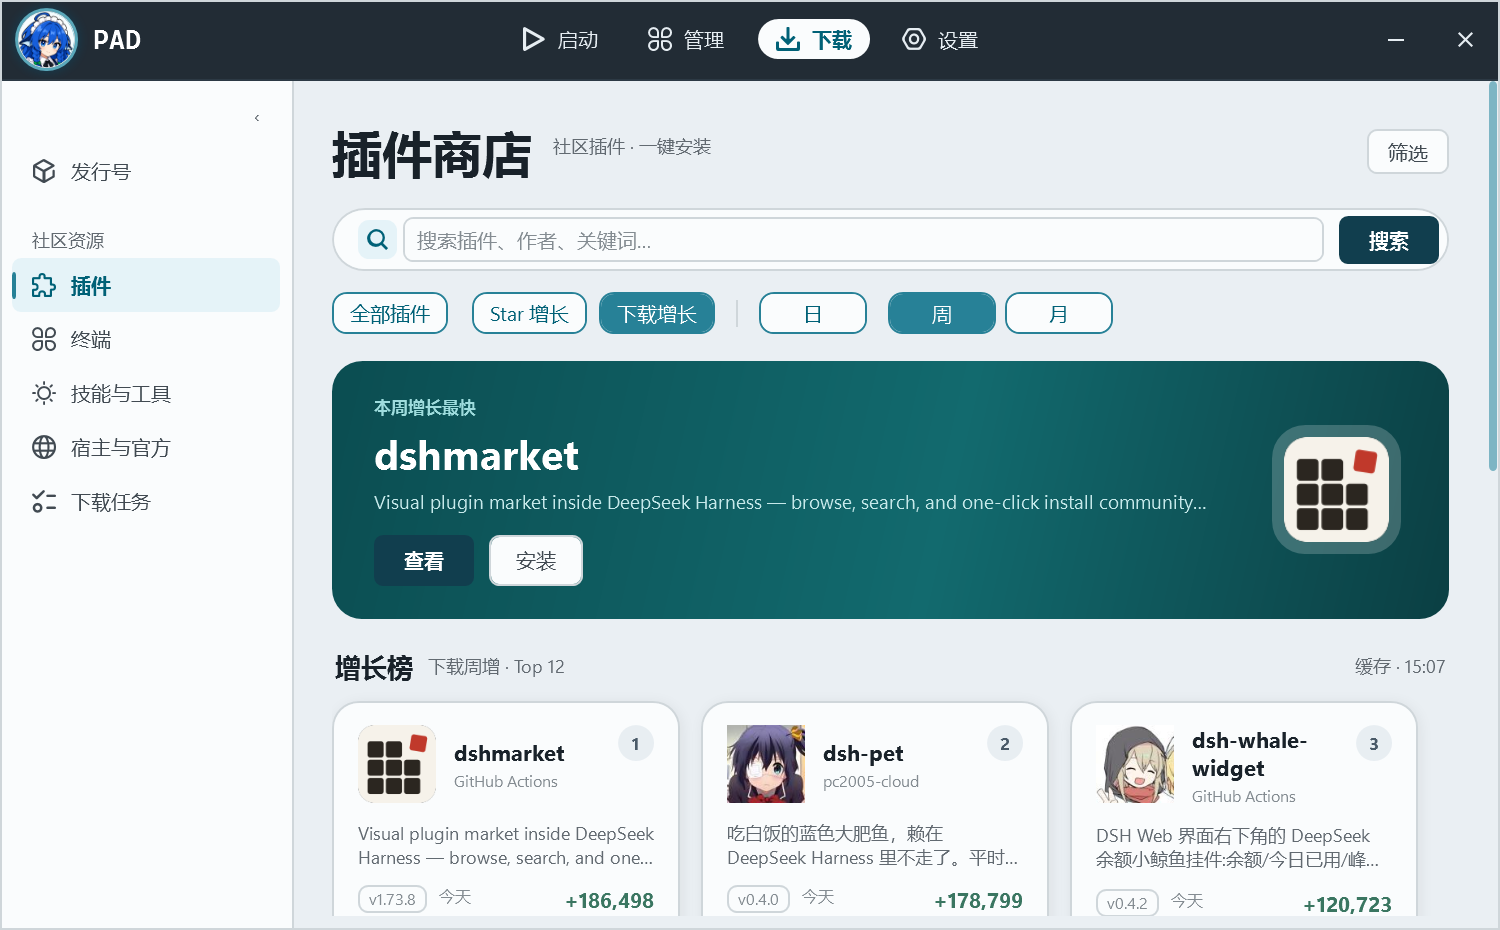
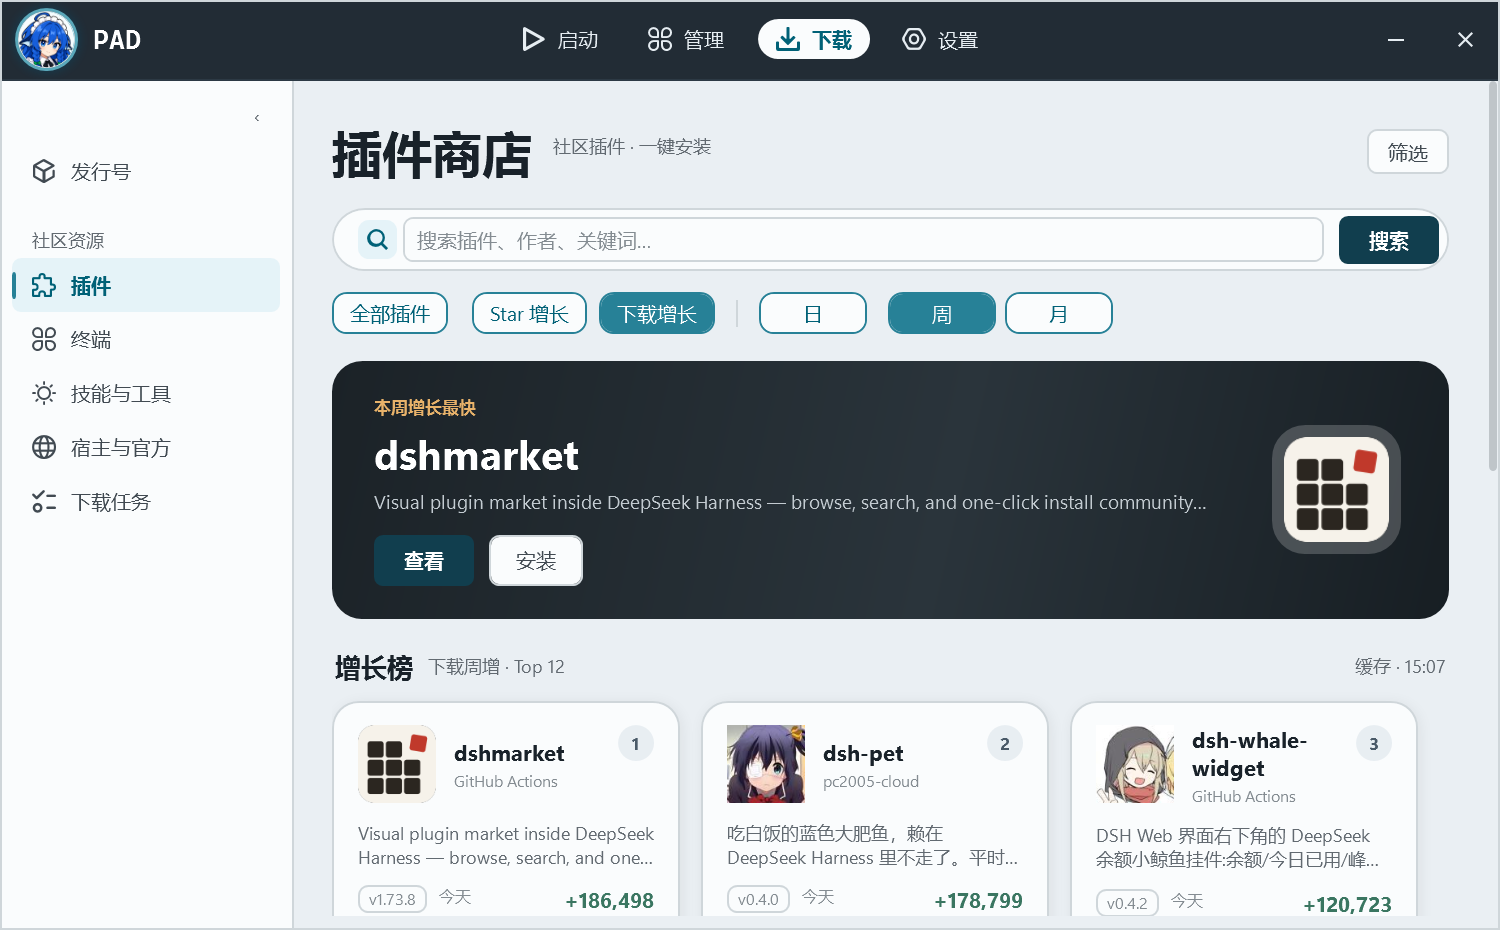
PAD 商店 Hero 去掉绿色底：改石墨渐变 + 暖金 kicker

Changed region(s): [[0.2147, 0.0935, 1.0, 0.686]]

diff --git a/agent-pack-dsh/pad/Views/DownloadView.xaml b/agent-pack-dsh/pad/Views/DownloadView.xaml
@@ -422,9 +422,9 @@
                     CornerRadius="20" ClipToBounds="True">
               <Border.Background>
                 <LinearGradientBrush StartPoint="0,0" EndPoint="1,1">
-                  <GradientStop Color="#0B4D51" Offset="0" />
-                  <GradientStop Color="#126A6E" Offset="0.55" />
-                  <GradientStop Color="#0B3F43" Offset="1" />
+                  <GradientStop Color="#1B2227" Offset="0" />
+                  <GradientStop Color="#2A343B" Offset="0.55" />
+                  <GradientStop Color="#171E23" Offset="1" />
                 </LinearGradientBrush>
               </Border.Background>
               <Grid Margin="28,0">
@@ -433,11 +433,11 @@
                   <ColumnDefinition Width="Auto" />
                 </Grid.ColumnDefinitions>
                 <StackPanel VerticalAlignment="Center">
-                  <TextBlock Text="本周增长最快" Foreground="#9EDCDD" FontSize="11"
+                  <TextBlock Text="本周增长最快" Foreground="#E8B26A" FontSize="11"
                              FontWeight="Bold" />
                   <TextBlock x:Name="HeroTitle" Foreground="White" FontSize="27" FontWeight="Bold"
                              Margin="0,6,0,0" TextTrimming="CharacterEllipsis" />
-                  <TextBlock x:Name="HeroDesc" Foreground="#C6E9EA" FontSize="12.5"
+                  <TextBlock x:Name="HeroDesc" Foreground="#C3CBD1" FontSize="12.5"
                              Margin="0,6,0,0" MaxWidth="560" HorizontalAlignment="Left"
                              TextTrimming="CharacterEllipsis" />
                   <StackPanel Orientation="Horizontal" Margin="0,14,0,0">
